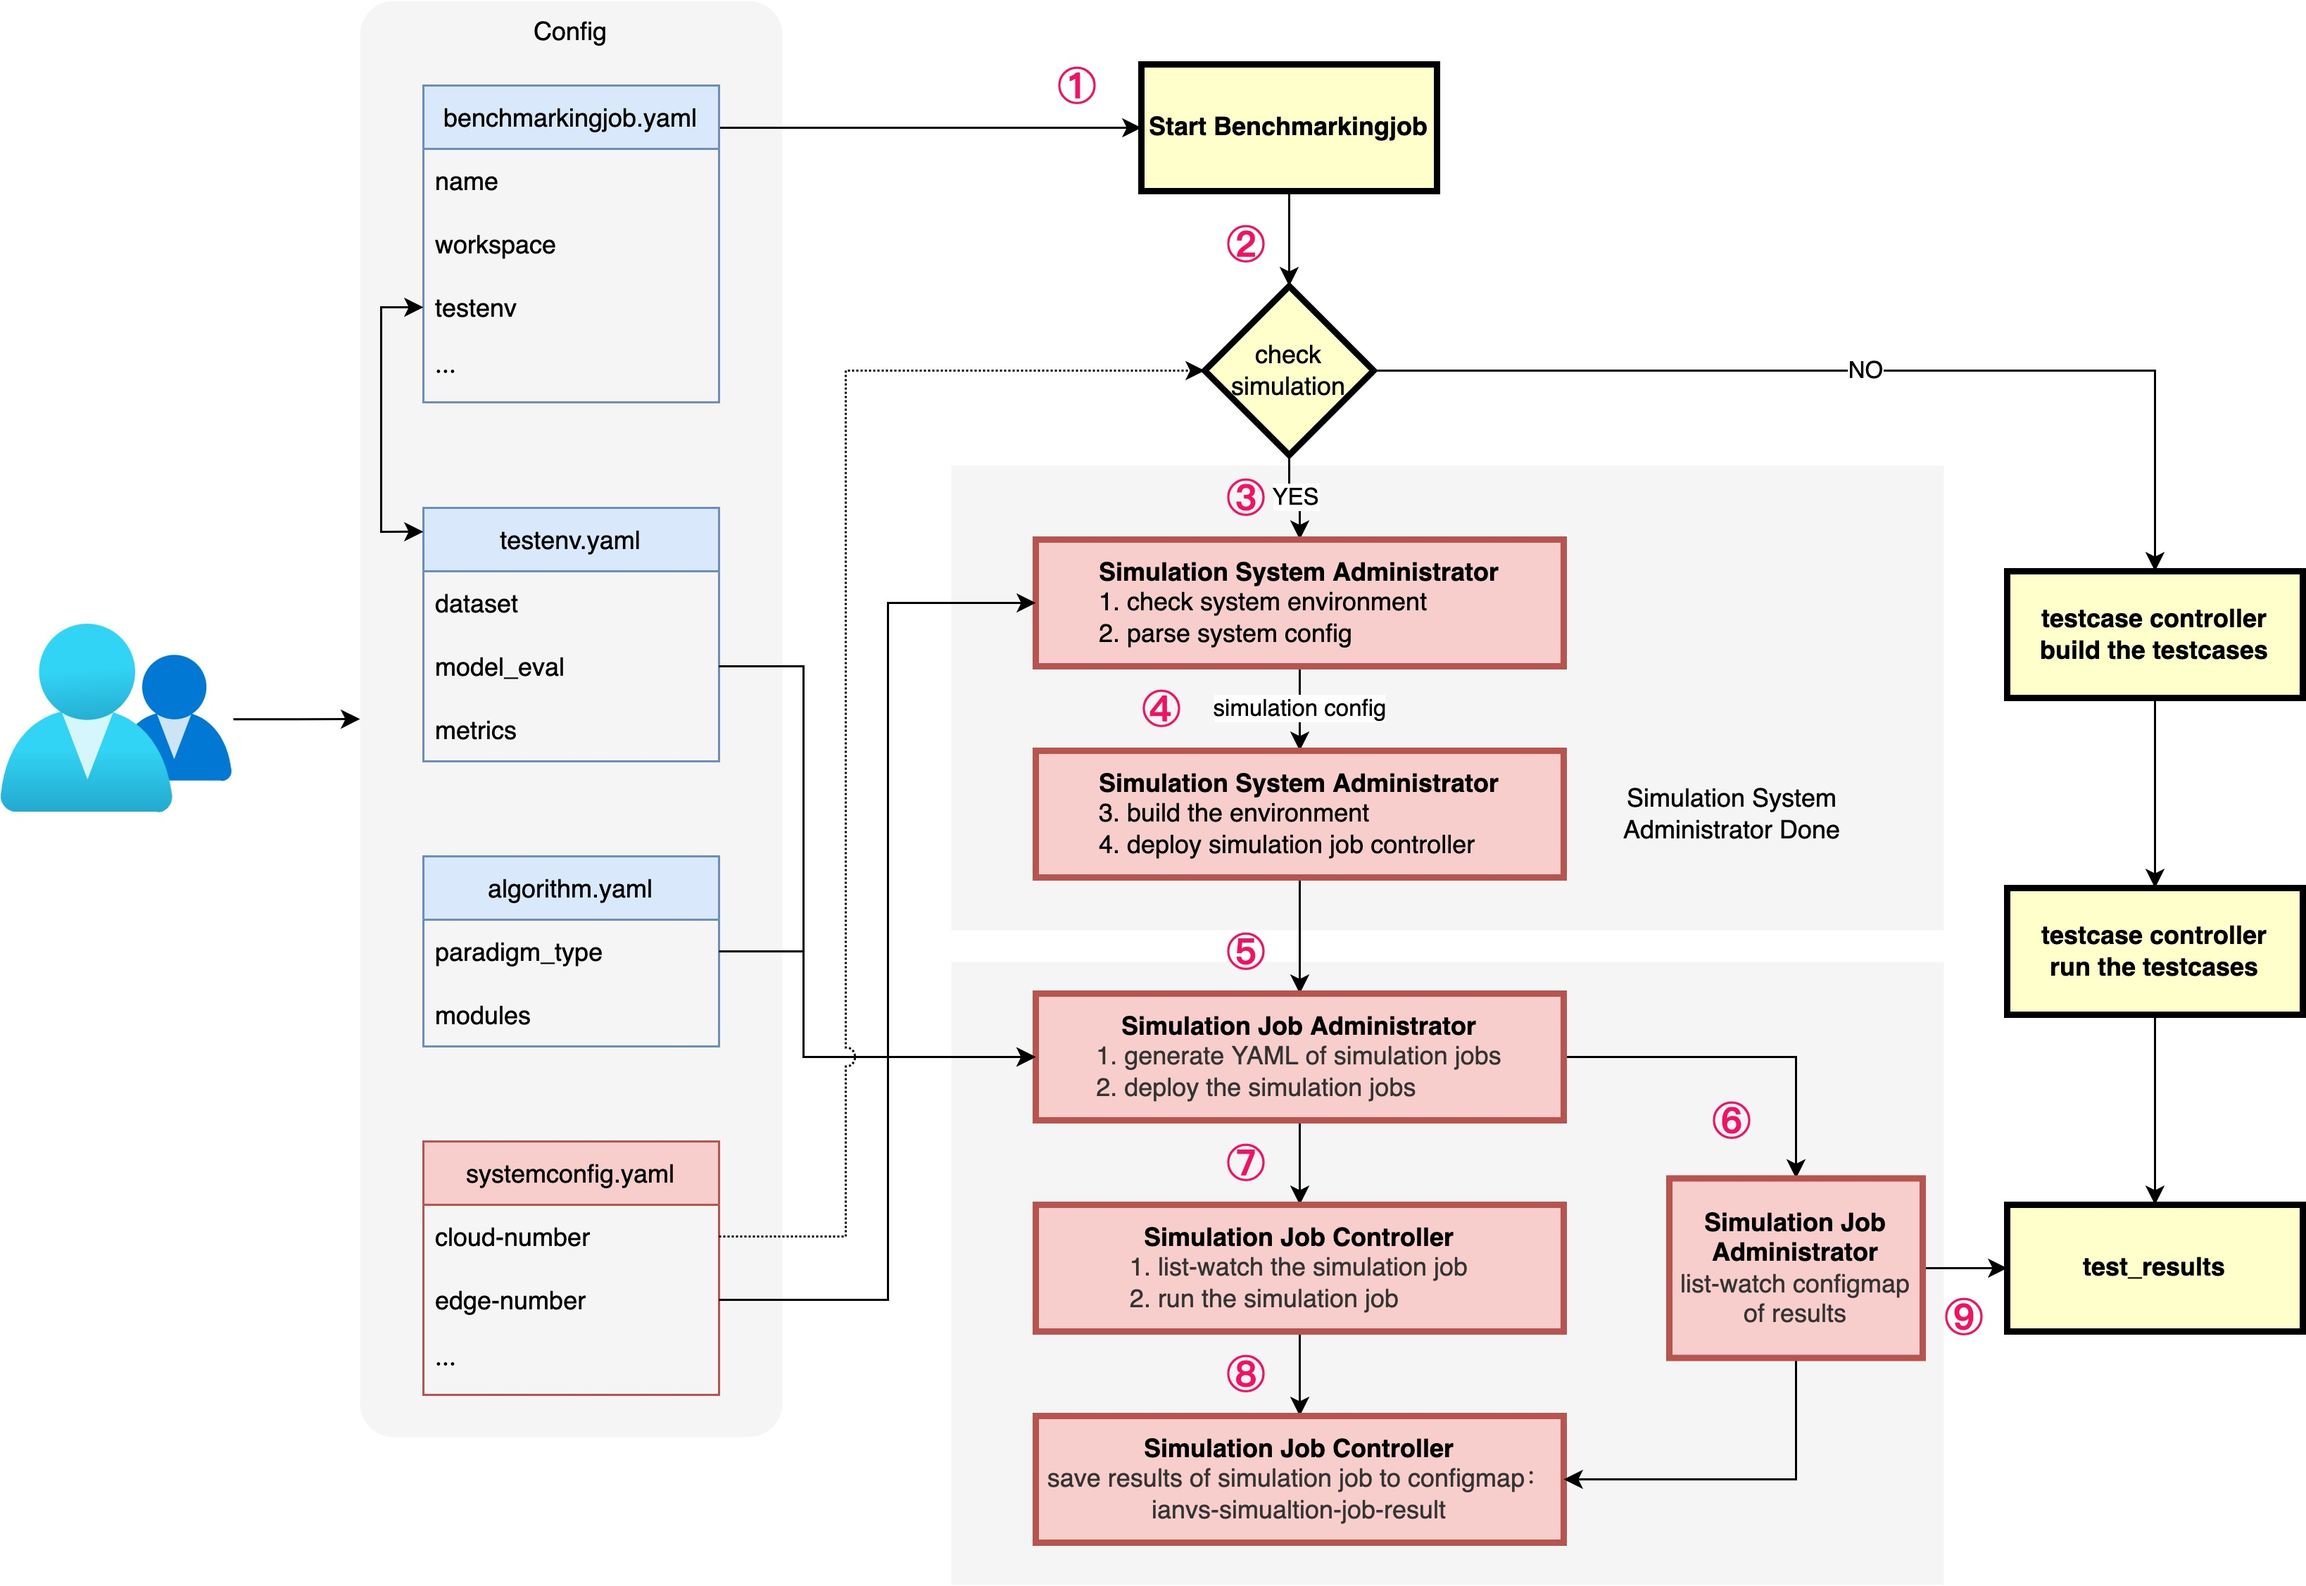
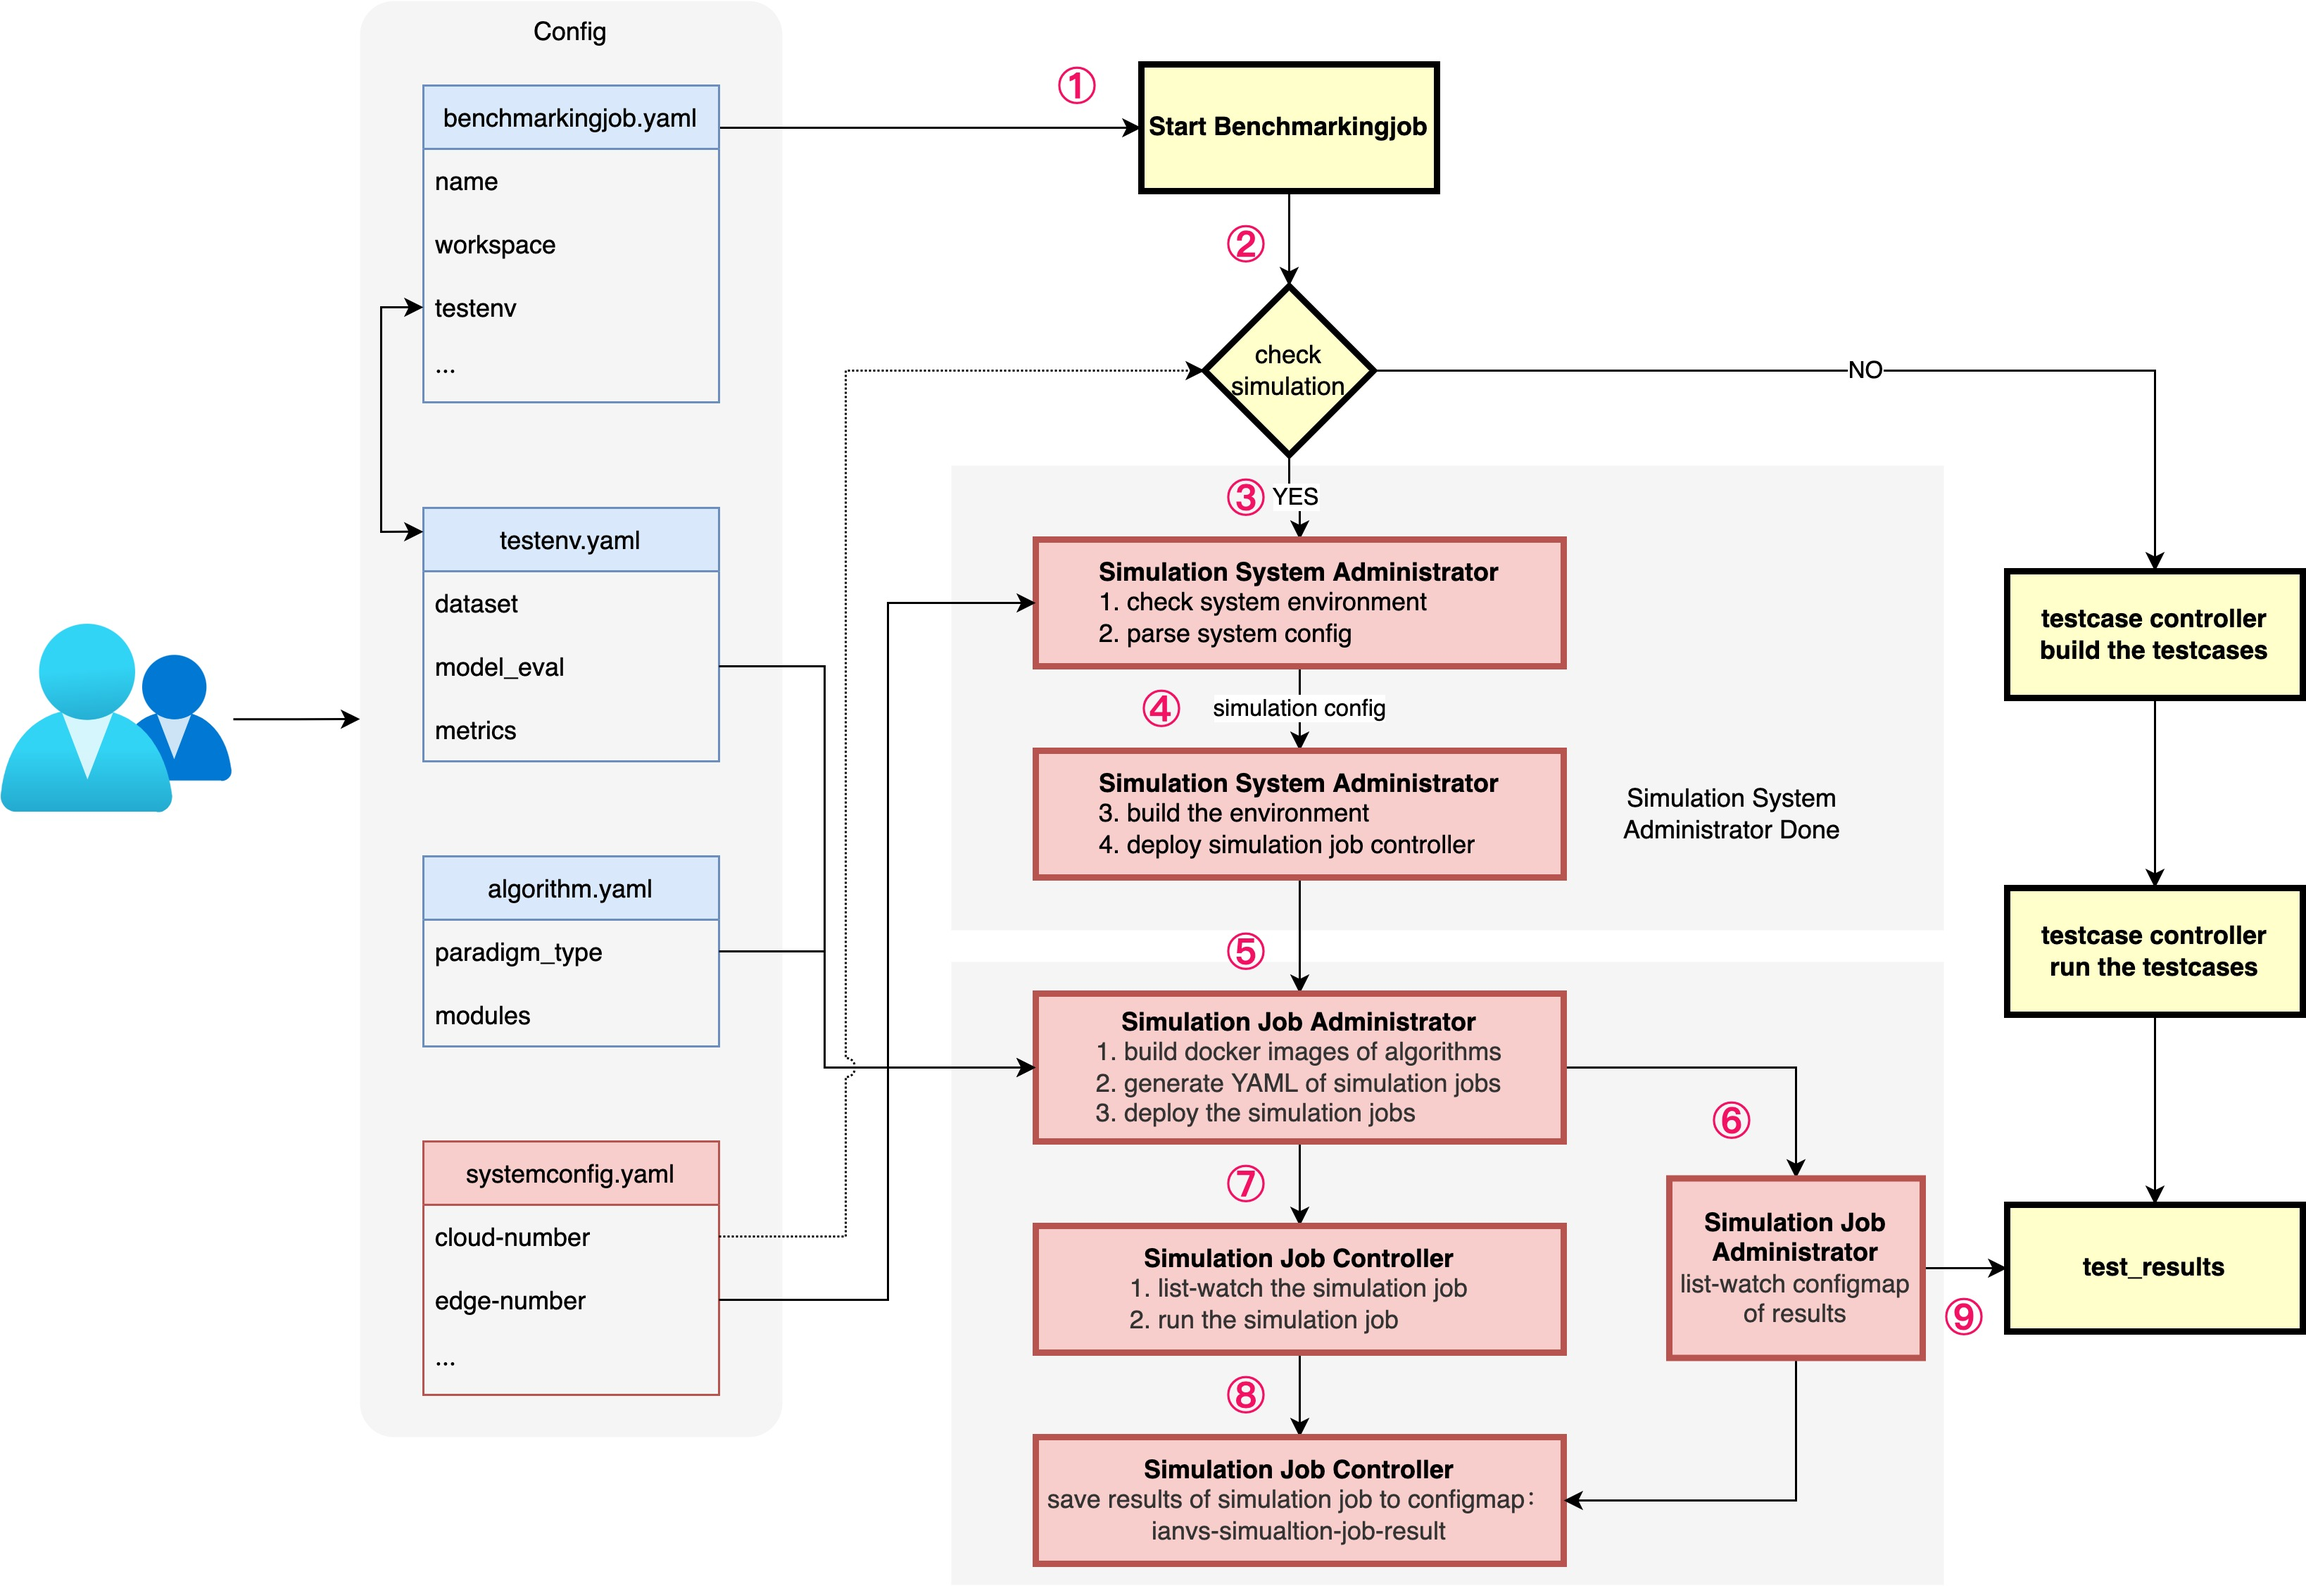
Modified based on community comments. 1. Adjusted the functions and processes of simulation system administrator and simulation job administrator 2. adjusted the flow chart.

Changed region(s): [[0.4359, 0.6214, 0.685, 0.9942], [0.3425, 0.6525, 0.3736, 0.6835]]

diff --git a/docs/proposals/simulation/simulation.md b/docs/proposals/simulation/simulation.md
@@ -16,7 +16,6 @@ The project is committed to building an edge-cloud collaborative AI Bechmark for
 
 - Provide downloadable open source datasets and data processing scripts for the difficulty in obtaining datasets and supporting algorithms
 - Provides industrial-grade distributed collaborative system simulation for the problem that the repeated deployment of edge-cloud collaboration is too heavy
-- In view of the high cost of solution selection and the obscure problem of value, it supports the calculation and ranking of edge-cloud collaborative AI algorithm indicators
 
 ## Proposal
 
@@ -110,29 +109,32 @@ In the framwork of ianvs, the `simulation controller` is the core module of syst
 The models in `simulation controller` are as follows:
 - The `Simulation System Administrator` is used to
   1. parse the system config(simulation)
-  2. build the simulation enviroment
-  3. create and deploy the moudles needed in simulation enviroment
-  3. close and delete the simulation enviroment
+  2. check the host enviroment, e.g. check if the host has installed docker, kind, and whether memory > 4GB
+  3. build the simulation enviroment
+  4. create and deploy the moudles needed in simulation enviroment
+  5. close and delete the simulation enviroment
 - The `Simulation Job Administrator` is the core module for manage the simulation job, and provides the following funcitons:
-  1. generate the YAML file of `simulation job`
-  2. deploy and delete the `simulation job` in K8s
-  3. list-watch the results of `simulation job` in K8s
+  1. build the docker images of algorithms to be tested
+  2. generate the YAML file of `simulation job`
+  3. deploy and delete the `simulation job` in K8s
+  4. list-watch the results of `simulation job` in K8s
 
-#### Dataflow
+#### Flowchart
 ![img](images/simulation_dataflow.jpg)
 
 The `System Config` denotes the system config of the current benchmarkingjob, such as the `cloud number` and `edge number`.
 
-In the data flow diagram above, the expected flow is as follows:
+In the flowchart diagram above, the expected flow is as follows:
 1. start the benchmarkingjob
 2. check whether to start emulation based on `system config`
 3. `Simulation System Administrator` check environment and parse system config
-  - check environment: eg. check if the host has installed docker, kind, and whether the memory > 4GB
+  - check environment: e.g. check if the host has installed docker, kind, and whether the memory > 4GB
   - parse simulation config
 4. `Simulation System Administrator` build the environment and create needed moudles.
   - build the environment: deploying a cluster including K8s and GM (global manager) locally through [all-in-one scripts of sedna](https://github.com/kubeedge/sedna/blob/527c574a60d0ae87b0436f9a8b38cf84fb6dab21/docs/setup/all-in-one.md)
   - create and deploy the `simulation job controller`
 5. `Simulation Job Administrator` generate and deploy simulation jobs.
+  - build the docker images of algorithms to be tested
   - generate the YAML of simulation job base on `testenv.yaml` and `algorithm.yaml`
   - deploy simulation job: access k8s API-server via `python-k8sclient` to deploy simulation jobs
 6. `Simulation Job Administrator` list-watch the configmap of results: ianvs-simualtion-job-result
